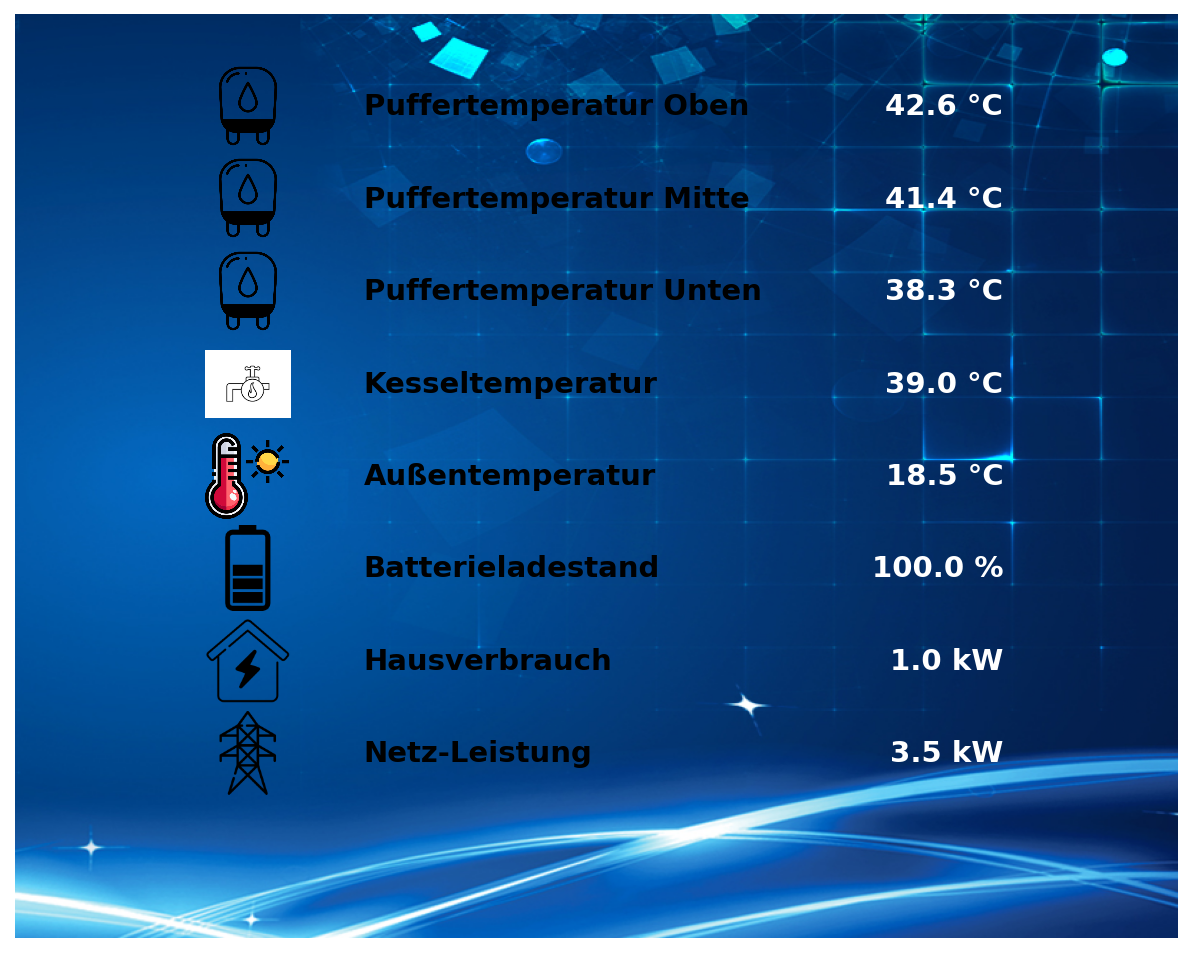
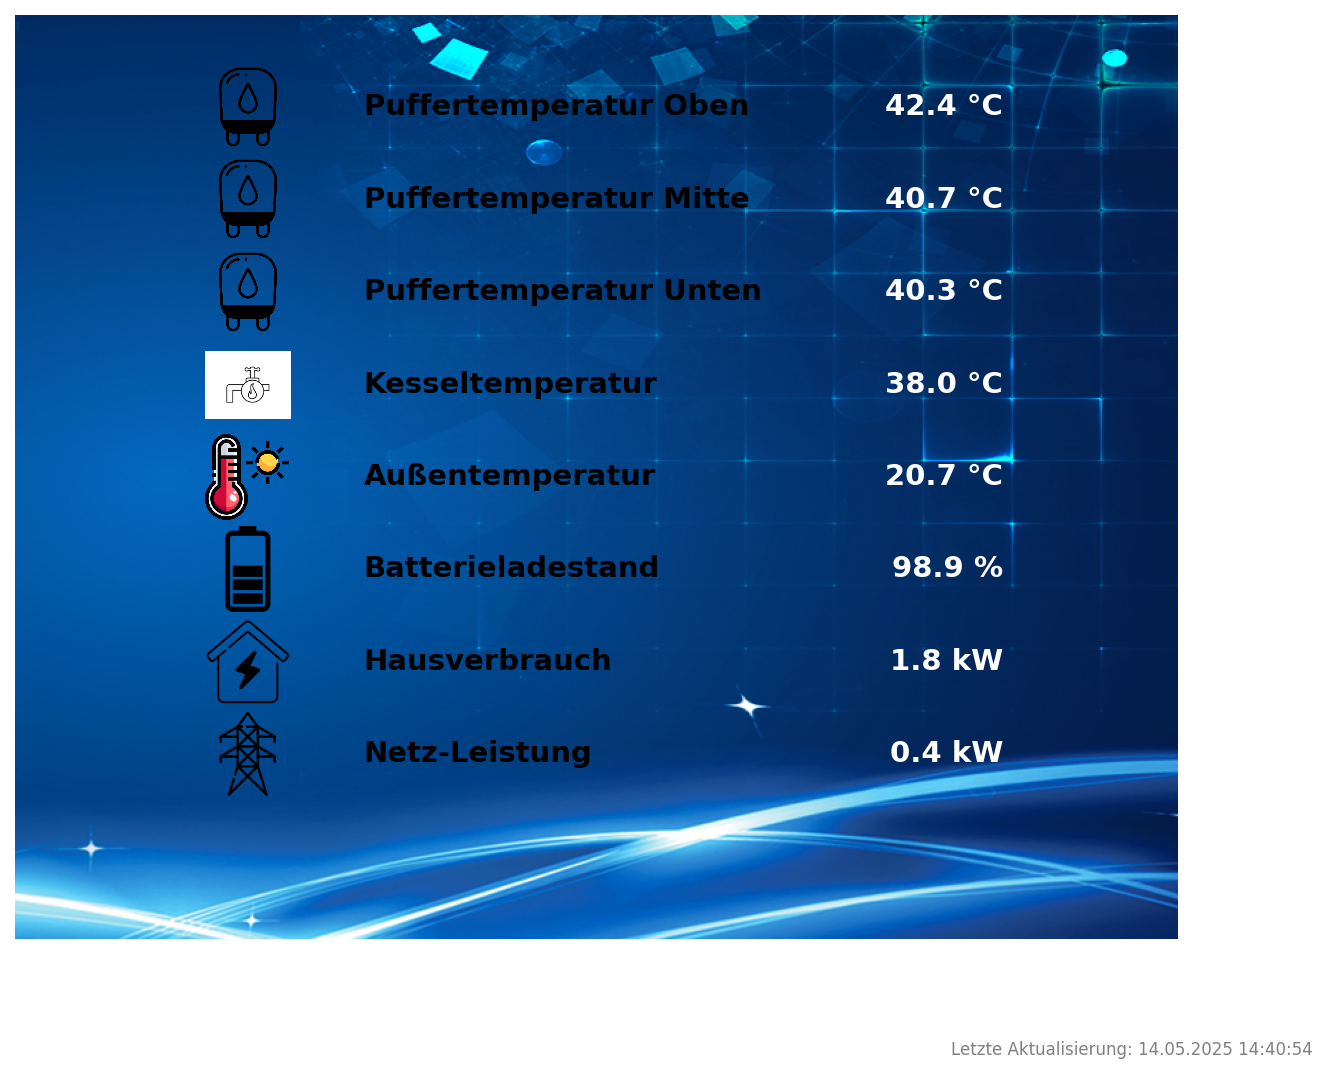
bugfix

diff --git a/grafiken.py b/grafiken.py
@@ -2,6 +2,7 @@ import os
 import pandas as pd
 import matplotlib.pyplot as plt
 from matplotlib.offsetbox import OffsetImage, AnnotationBbox
+import matplotlib.dates as mdates
 
 WORKING_DIRECTORY = os.path.dirname(os.path.abspath(__file__))
 
@@ -21,6 +22,7 @@ def filter_data_last_48_hours(csv_file):
 def update_fronius_graphics():
     daten = filter_data_last_48_hours(os.path.join(WORKING_DIRECTORY, "FroniusDaten.csv"))
     if daten is None or daten.empty:
+        print("Keine Daten für Fronius verfügbar.")
         return
 
     produktion = daten["PV-Leistung (kW)"] * 1000
@@ -46,16 +48,29 @@ def update_fronius_graphics():
     plt.title("Fronius GEN24 Leistungsdaten (Letzte 48 Stunden)", fontsize=16, fontweight="bold")
     plt.xlabel("Zeit", fontsize=14)
     plt.ylabel("Leistung (W)", fontsize=14)
+
+    # Zeitachse formatieren
+    ax = plt.gca()
+    ax.xaxis.set_major_formatter(mdates.DateFormatter("%d.%m %H:%M"))  # Format: Tag.Monat Stunde:Minute
+    ax.xaxis.set_major_locator(mdates.HourLocator(interval=6))  # Alle 6 Stunden ein Label
     plt.xticks(rotation=45, fontsize=12)
+
     plt.yticks(fontsize=12)
     plt.ylim(0, max(produktion.max(), eigenverbrauch.max(), verbrauch.max()) * 1.1)
     plt.grid(color="gray", linestyle="--", linewidth=0.5, alpha=0.7)
     plt.legend(fontsize=12, loc="upper left", frameon=True, shadow=True)
     plt.gca().set_facecolor("white")
+
+    # Zeitstempel hinzufügen
+    last_update = pd.Timestamp.now().strftime("%d.%m.%Y %H:%M:%S")
+    plt.text(0.99, 0.01, f"Letzte Aktualisierung: {last_update}", fontsize=10, color="gray",
+             ha="right", va="bottom", transform=plt.gcf().transFigure)
+
     plt.tight_layout()
     grafik_pfad = os.path.join(WORKING_DIRECTORY, "FroniusDaten.png")
     plt.savefig(grafik_pfad, dpi=150)
     plt.close()
+    print(f"Fronius-Grafik aktualisiert ({last_update}).")
 
 # Funktion zum Erstellen der Heizungstemperatur-Grafik
 def update_bmk_graphics():
@@ -71,16 +86,28 @@ def update_bmk_graphics():
         plt.title("Heizungstemperaturen (Letzte 48 Stunden)", fontsize=16, fontweight="bold")
         plt.xlabel("Zeit", fontsize=14)
         plt.ylabel("Temperatur (°C)", fontsize=14)
+
+        # Zeitachse formatieren
+        ax = plt.gca()
+        ax.xaxis.set_major_formatter(mdates.DateFormatter("%d.%m %H:%M"))  # Format: Tag.Monat Stunde:Minute
+        ax.xaxis.set_major_locator(mdates.HourLocator(interval=6))  # Alle 6 Stunden ein Label
         plt.xticks(rotation=45, fontsize=12)
+
         plt.yticks(fontsize=12)
         plt.grid(color="gray", linestyle="--", linewidth=0.5, alpha=0.7)
         plt.legend(fontsize=12, loc="upper left", frameon=True, shadow=True)
         plt.gca().set_facecolor("white")
+
+        # Zeitstempel hinzufügen (klein unten rechts)
+        last_update = pd.Timestamp.now().strftime("%d.%m.%Y %H:%M:%S")
+        plt.text(0.99, 0.01, f"Letzte Aktualisierung: {last_update}", fontsize=8, color="gray",
+                 ha="right", va="bottom", transform=plt.gcf().transFigure)
+
         plt.tight_layout()
         grafik_pfad = os.path.join(WORKING_DIRECTORY, "Heizungstemperaturen.png")
         plt.savefig(grafik_pfad, dpi=150)
         plt.close()
-        print("Heizungstemperaturen-Grafik aktualisiert.")
+        print(f"Heizungstemperaturen-Grafik aktualisiert ({last_update}).")
     except KeyError as e:
         print(f"Fehler beim Erstellen der Heizungstemperaturen-Grafik: {e}")
 
@@ -151,9 +178,15 @@ def update_summary_graphics():
             ax.text(0.3, y_pos, label, fontsize=14, fontweight="bold", ha="left", va="center", color="black")
             ax.text(0.85, y_pos, value, fontsize=14, fontweight="bold", ha="right", va="center", color="white")
             y_pos -= 0.1
+
+        # Zeitstempel hinzufügen
+        last_update = pd.Timestamp.now().strftime("%d.%m.%Y %H:%M:%S")
+        plt.text(0.99, 0.01, f"Letzte Aktualisierung: {last_update}", fontsize=8, color="gray",
+                 ha="right", va="bottom", transform=plt.gcf().transFigure)
+
         grafik_pfad = os.path.join(WORKING_DIRECTORY, "Zusammenfassung.png")
         plt.savefig(grafik_pfad, dpi=150, bbox_inches="tight")
         plt.close()
-        print("Zusammenfassungsgrafik aktualisiert.")
+        print(f"Zusammenfassungsgrafik aktualisiert ({last_update}).")
     except Exception as e:
         print(f"Fehler beim Aktualisieren der Zusammenfassungsgrafik: {e}")

diff --git a/main.py b/main.py
@@ -10,7 +10,7 @@ import BMKDATEN
 def main():
     start_time = datetime.now()
     last_bmk_update = start_time
-    last_wechselrichter_update = start_time
+    last_fronius_update = start_time
     last_summary_update = start_time
 
     # Starte visualisierung_tkinter.py als separaten Prozess
@@ -25,17 +25,17 @@ def main():
         while True:
             current_time = datetime.now()
 
-            # Aktualisiere BMK-Daten alle 1 Minute
-            if (current_time - last_bmk_update).total_seconds() >= 60:
-                print("BMK-Daten werden aktualisiert...")
-                BMKDATEN.abrufen_und_speichern()
-                last_bmk_update = current_time
+            # Aktualisiere Fronius-Grafik alle 30 Sekunden
+            if (current_time - last_fronius_update).total_seconds() >= 30:
+                print("Fronius-Grafik wird aktualisiert...")
+                grafiken.update_fronius_graphics()
+                last_fronius_update = current_time
 
-            # Aktualisiere Wechselrichter-Daten alle 1 Minute
-            if (current_time - last_wechselrichter_update).total_seconds() >= 60:
-                print("Wechselrichter-Daten werden aktualisiert...")
-                Wechselrichter.abrufen_und_speichern()
-                last_wechselrichter_update = current_time
+            # Aktualisiere BMK-Grafik alle 30 Sekunden
+            if (current_time - last_bmk_update).total_seconds() >= 30:
+                print("BMK-Grafik wird aktualisiert...")
+                grafiken.update_bmk_graphics()
+                last_bmk_update = current_time
 
             # Aktualisiere die Zusammenfassungsgrafik alle 30 Sekunden
             if (current_time - last_summary_update).total_seconds() >= 30:

diff --git a/visualisierung_tkinter.py b/visualisierung_tkinter.py
@@ -44,8 +44,7 @@ if __name__ == "__main__":
         os.path.join(WORKING_DIRECTORY, "Zusammenfassung.png"),
         os.path.join(WORKING_DIRECTORY, "FroniusDaten.png"),
         os.path.join(WORKING_DIRECTORY, "Heizungstemperaturen.png"),
-        os.path.join(WORKING_DIRECTORY, "KumulativeDaten.png"),
-    ]
+            ]
 
     # Index der aktuellen Grafik
     current_index = 0
